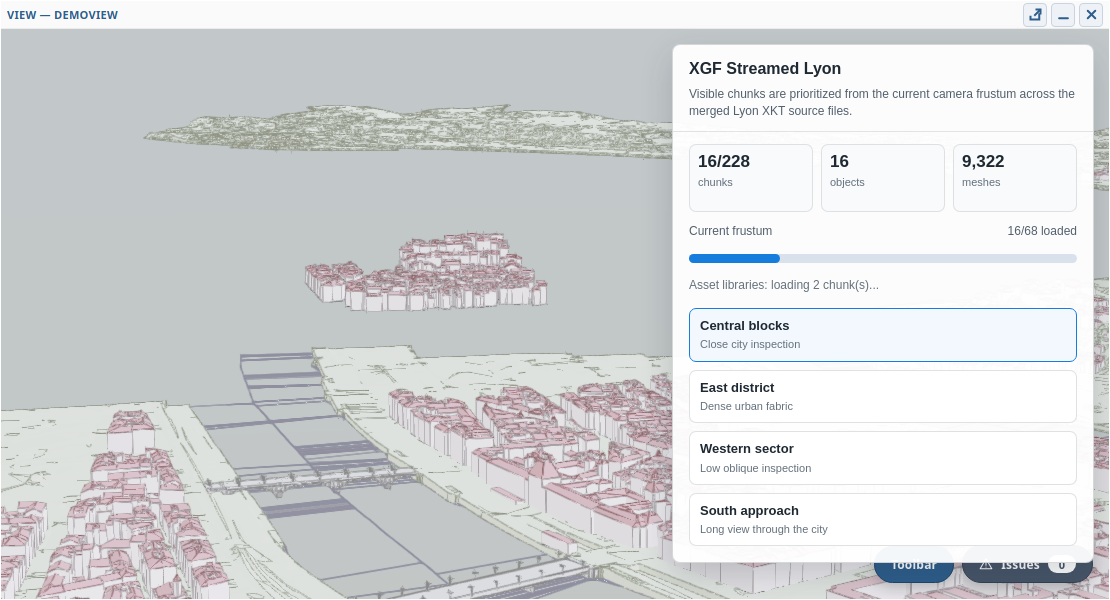
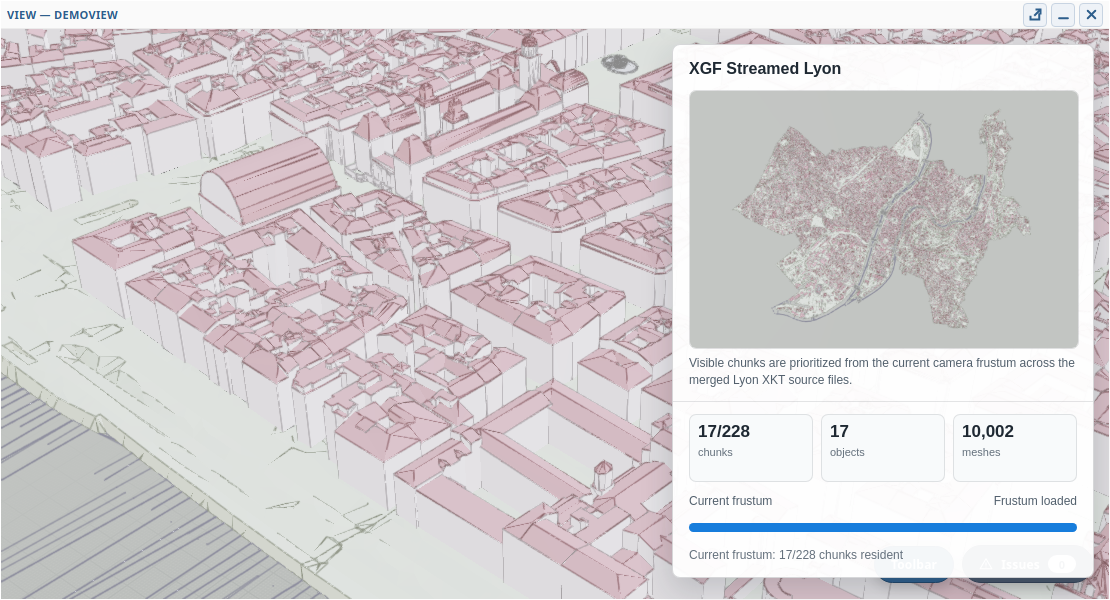
Streaming tweaks

diff --git a/packages/website/examples/formats_xgf_streaming_lyon/index.js b/packages/website/examples/formats_xgf_streaming_lyon/index.js
@@ -13,39 +13,48 @@ const FAR_CLIP = 100000;
 const VIEWPOINTS = [
   {
     id: "LYON-01",
-    title: "Central blocks",
-    location: "Close city inspection",
-    eye: [472, 1432, 392],
-    look: [-128, -768, 2],
+    title: "Central cluster",
+    location: "Street-scale inspection",
+    eye: [420, -620, 320],
+    look: [-40, -980, -80],
     up: [0, 0, 1],
-    fov: 18
+    fov: 21
   },
   {
     id: "LYON-02",
-    title: "East district",
-    location: "Dense urban fabric",
-    eye: [3672, 3232, 922],
-    look: [172, -232, 32],
+    title: "East blocks",
+    location: "Local building group",
+    eye: [2360, 720, 340],
+    look: [1840, 260, -72],
     up: [0, 0, 1],
-    fov: 24
+    fov: 22
   },
   {
     id: "LYON-03",
-    title: "Western sector",
+    title: "West blocks",
     location: "Low oblique inspection",
-    eye: [-6428, 2432, 672],
-    look: [-2328, -868, 22],
+    eye: [-2680, 680, 335],
+    look: [-2140, 160, -76],
     up: [0, 0, 1],
     fov: 22
   },
   {
     id: "LYON-04",
-    title: "South approach",
-    location: "Long view through the city",
-    eye: [972, -7868, 572],
-    look: [-328, -1268, 32],
+    title: "South overview",
+    location: "Broad city approach",
+    eye: [820, -7800, 1180],
+    look: [-260, -1180, -90],
     up: [0, 0, 1],
-    fov: 22
+    fov: 28
+  },
+  {
+    id: "LYON-05",
+    title: "Northwest overview",
+    location: "Merged district extent",
+    eye: [-7200, 5200, 1480],
+    look: [260, -160, -110],
+    up: [0, 0, 1],
+    fov: 32
   }
 ];
 

diff --git a/packages/website/examples/formats_xgf_streaming_lyon/index.html b/packages/website/examples/formats_xgf_streaming_lyon/index.html
@@ -56,6 +56,15 @@
       font-weight: 700;
     }
 
+    .lyon-preview {
+      display: block;
+      width: 100%;
+      height: auto;
+      margin: 10px 0 0;
+      border-radius: 7px;
+      border: 1px solid rgba(35, 43, 52, 0.14);
+    }
+
     .panel-header p {
       margin: 6px 0 0;
       font-size: 12px;
@@ -174,6 +183,7 @@
 <aside id="streamPanel" aria-label="XGF streaming status">
   <div class="panel-header">
     <h1>XGF Streamed Lyon</h1>
+    <img class="lyon-preview" src="lyon.png" alt="Lyon city model">
     <p>Visible chunks are prioritized from the current camera frustum across the merged Lyon XKT source files.</p>
   </div>
   <div class="metrics">
